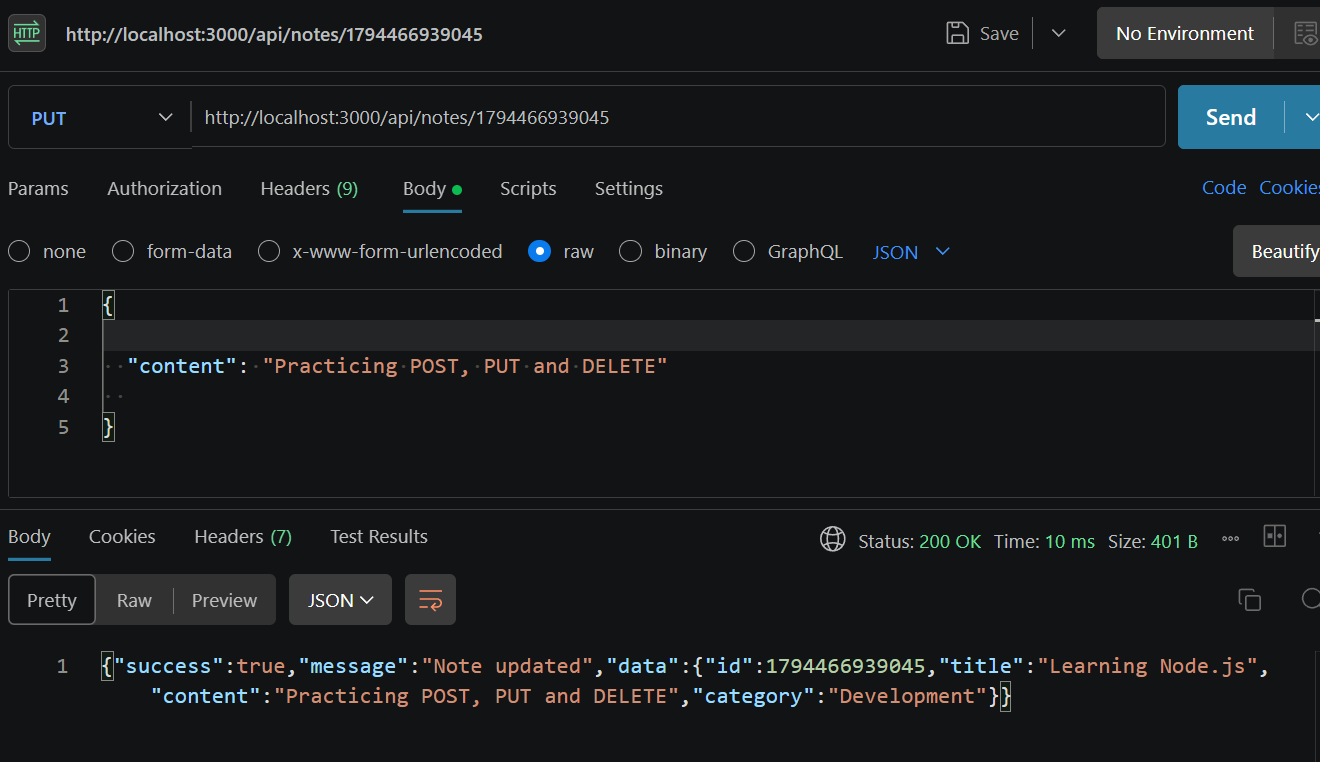
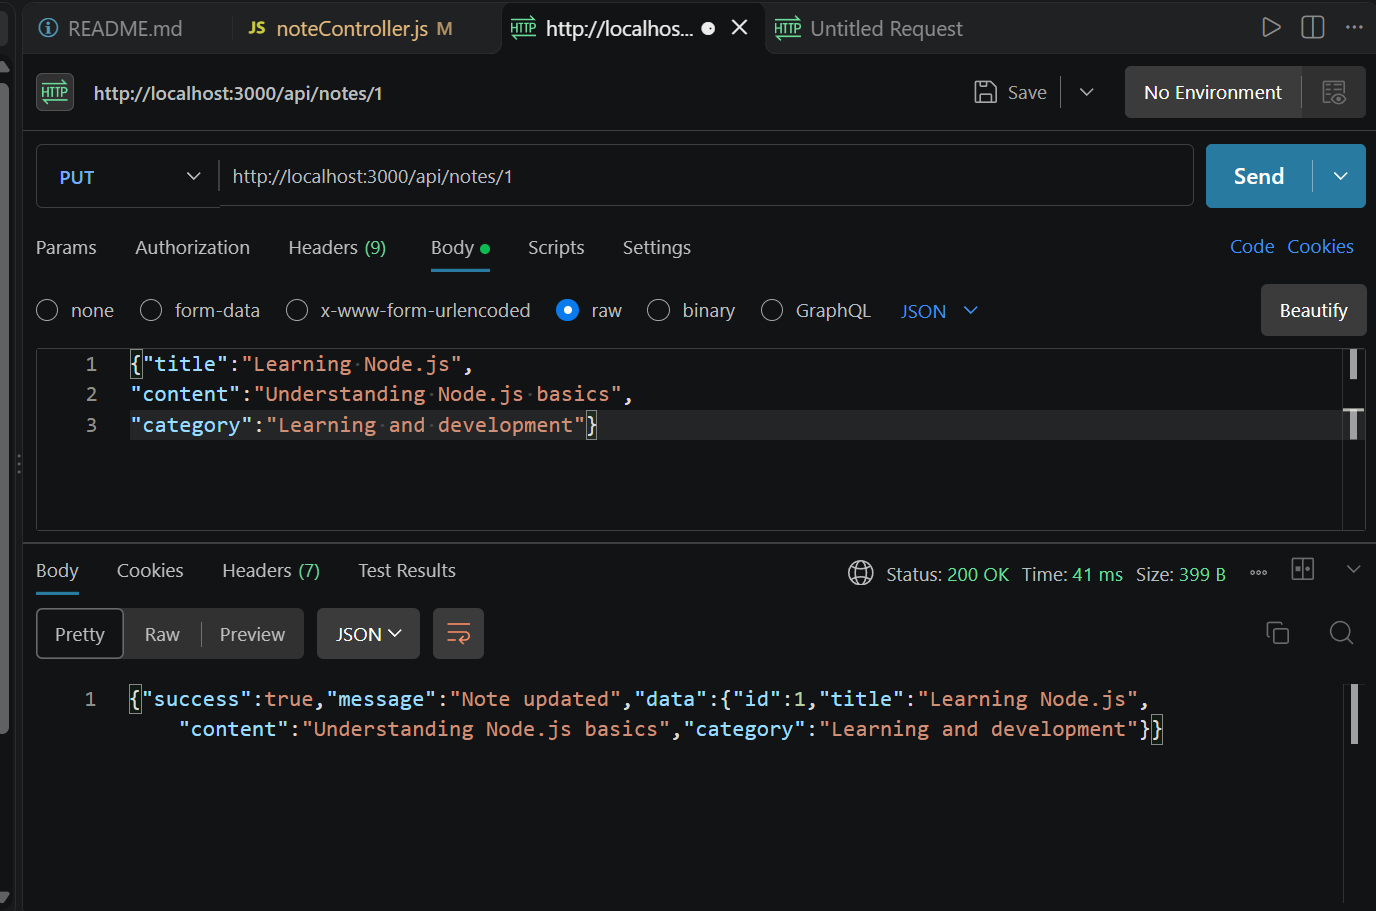
update:updated controller with async function

diff --git a/shahana-n/Assignment-6/notes-api/controllers/noteController.js b/shahana-n/Assignment-6/notes-api/controllers/noteController.js
@@ -2,85 +2,111 @@
 const Note = require('../models/Note');
 
 // GET all notes
-const getAllNotes = (req, res) => {
-  res.status(200).json(Note.getAll());
+const getAllNotes = async (req, res, next) => {
+  try {
+    const notes = Note.getAll();
+
+    res.status(200).json({
+      success: true,
+      count: notes.length,
+      data: notes
+    });
+  } catch (err) {
+    next(err);
+  }
 };
 
 // GET note by ID
-const getNoteById = (req, res) => {
-  const note = Note.getById(req.params.id);
+const getNoteById = async (req, res, next) => {
+  try {
+    const note =  Note.getById(req.params.id);
 
-  if (!note) {
-    return res.status(404).json({
-      success: false,
-      message: 'Note not found'
+    if (!note) {
+      return res.status(404).json({
+        success: false,
+        message: 'Note not found'
+      });
+    }
+
+    res.status(200).json({
+      success: true,
+      data: note
     });
+  } catch (err) {
+    next(err);
   }
-
-  res.status(200).json({
-    success: true,
-    data: note
-  });
 };
 
 // POST create note
-const createNote = (req, res) => {
-  const { title, content, category } = req.body;
+const createNote = async (req, res, next) => {
+  try {
+    const { title, content, category } = req.body;
 
-  if (!title || !content || !category) {
-    return res.status(400).json({
-      success: false,
-      message: 'Title, content and category are required'
+    if (!title || !content || !category) {
+      return res.status(400).json({
+        success: false,
+        message: 'Title, content and category are required'
+      });
+    }
+
+    const newNote =  Note.create({
+      title,
+      content,
+      category
     });
+
+    res.status(201).json({
+      success: true,
+      message: 'Note created',
+      data: newNote
+    });
+  } catch (err) {
+    next(err);
   }
-
-  const newNote = Note.create({
-    title,
-    content,
-    category
-  });
-
-  res.status(201).json({
-    success: true,
-    message: 'Note created',
-    data: newNote
-  });
 };
 
 // PUT update note
-const updateNote = (req, res) => {
-  const updated = Note.update(req.params.id, req.body);
+const updateNote = async (req, res, next) => {
+  try {
+    const updated =  Note.update(req.params.id, req.body);
 
-  if (!updated) {
-    return res.status(404).json({
-      success: false,
-      message: 'Note not found'
+    if (!updated) {
+      return res.status(404).json({
+        success: false,
+        message: 'Note not found'
+      });
+    }
+
+    res.status(200).json({
+      success: true,
+      message: 'Note updated',
+      data: updated
     });
+  } catch (err) {
+    next(err);
   }
-
-  res.status(200).json({
-    success: true,
-    message: 'Note updated',
-    data: updated
-  });
 };
 
 // DELETE note
-const deleteNote = (req, res) => {
-  const deleted = Note.remove(req.params.id);
+const deleteNote = async (req, res, next) => {
+  try {
+    const deleted = Note.remove(req.params.id);
 
-  if (!deleted) {
-    return res.status(404).json({
-      success: false,
-      message: 'Note not found'
+    if (!deleted) {
+      return res.status(404).json({
+        success: false,
+        message: 'Note not found'
+      });
+    }
+
+    res.status(200).json({
+      success: true,
+      message: 'Note deleted',
+      data: deleted
     });
+  } catch (err) {
+    next(err);
   }
-
-  res.status(200).json({
-    success: true,
-    message: 'Note deleted',
-    data: deleted
-  });
 };
 
 module.exports = {
